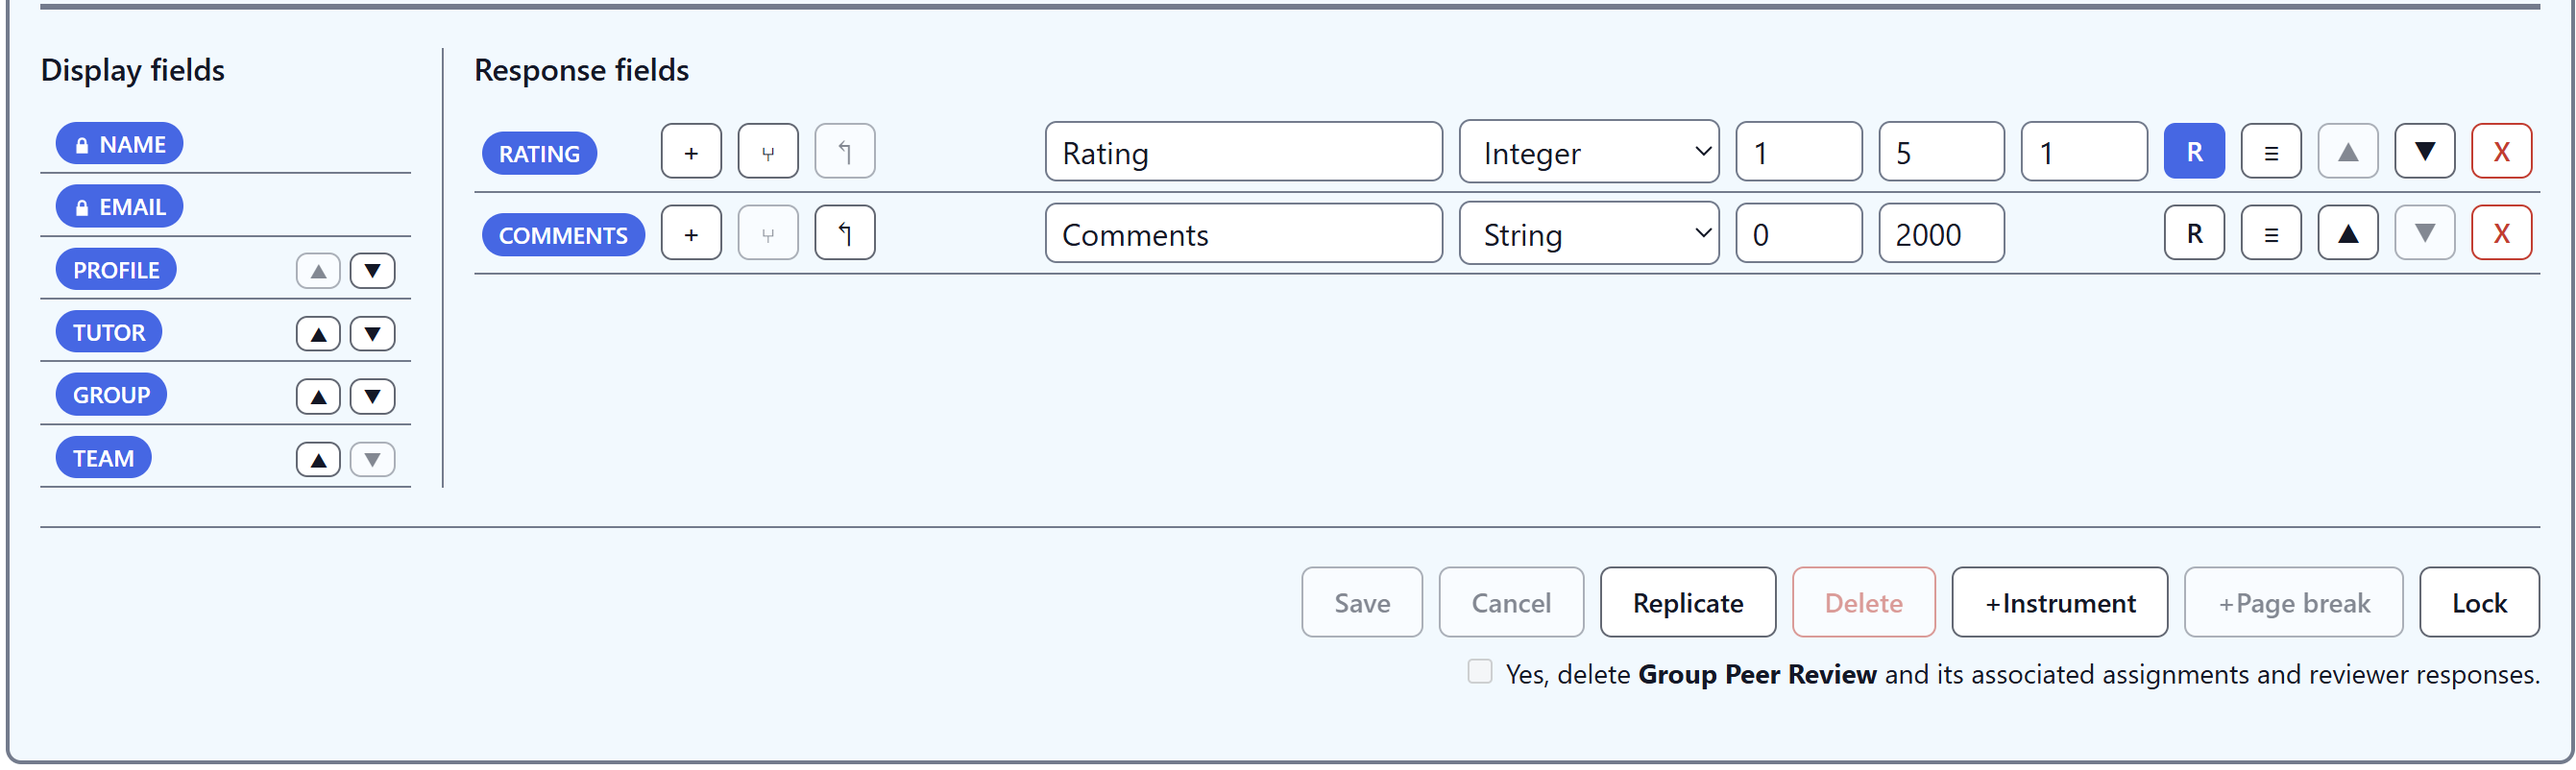
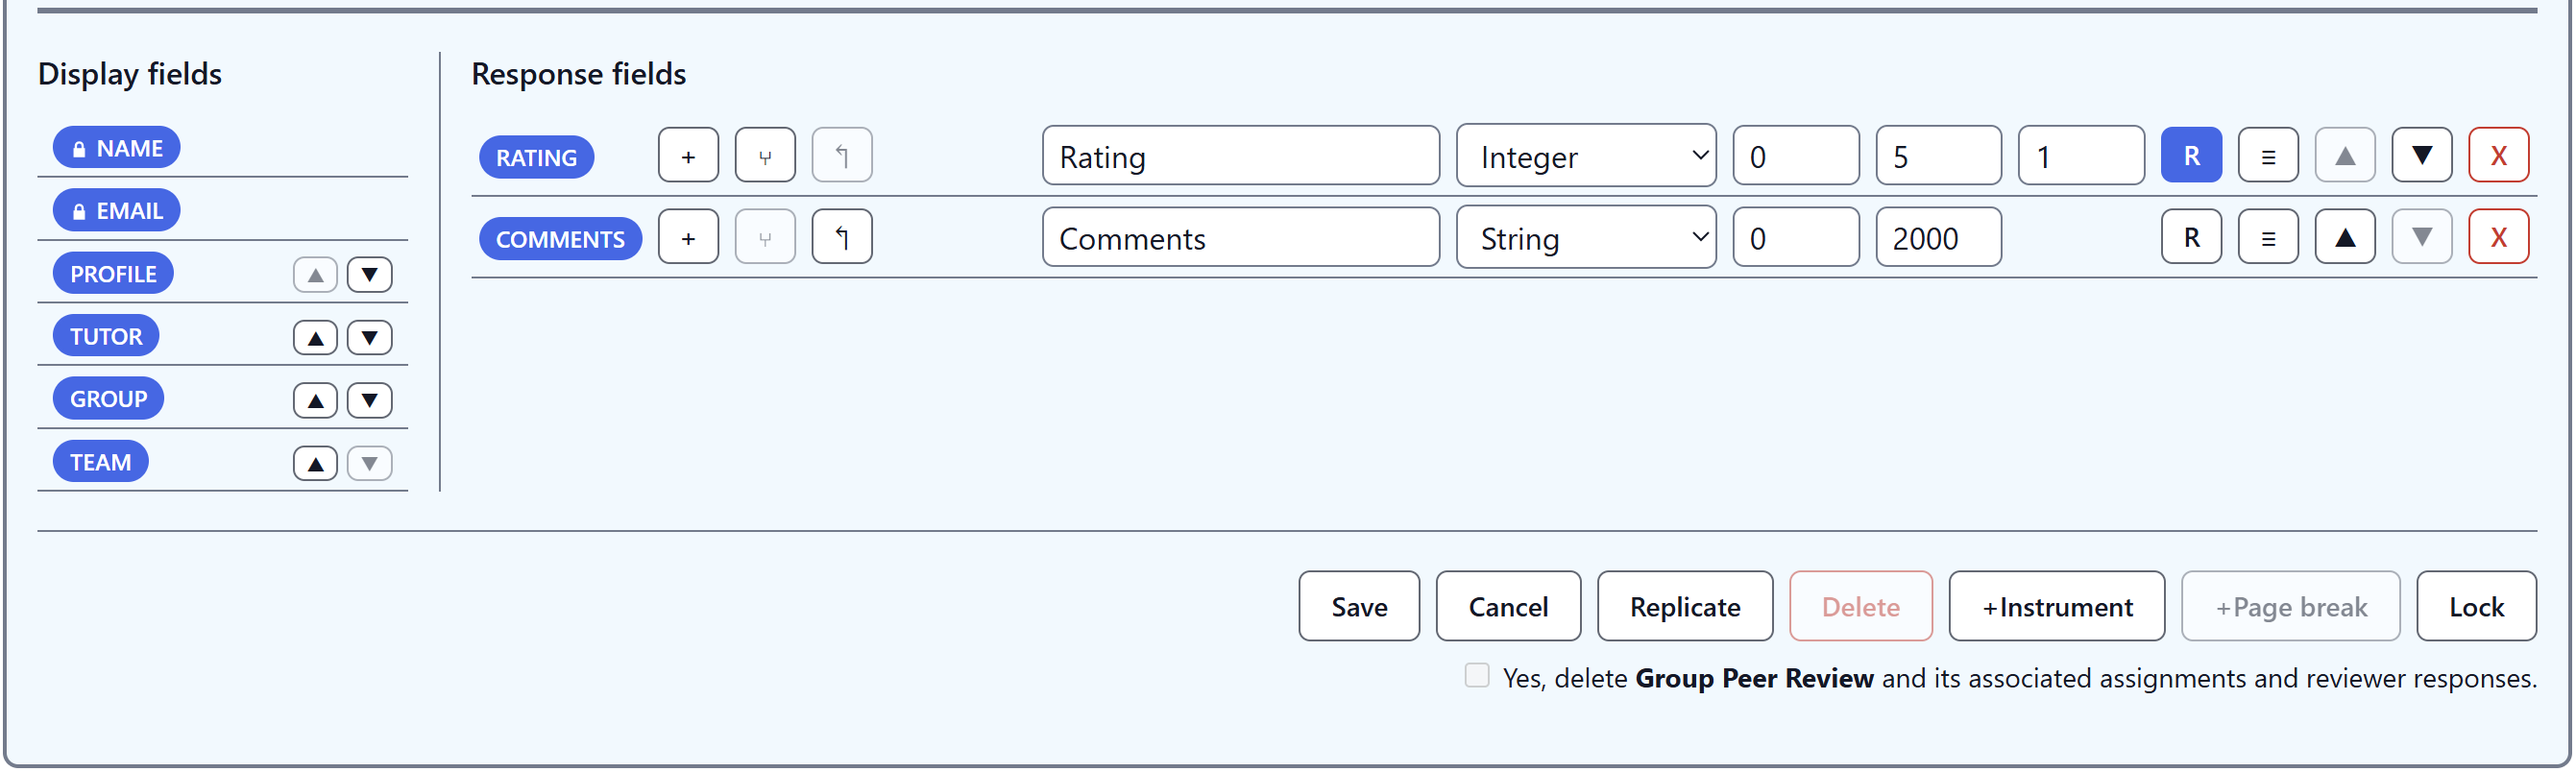
Guide: the retaken fields screencaps (Guide_v5b)
The author retook the fields pair so Rating's bounds read 0-5, matching
the preview screencap's 'Rating (0-5, steps of 1)'.

Claude-Session: https://claude.ai/code/session_0116Ns1HgCKeKutgZT3Tje64

Changed region(s): [[0.0, 0.0, 1.0, 0.9975], [0.1857, 0.0623, 0.2785, 0.1247], [0.0, 0.0623, 0.0928, 0.1247]]

diff --git a/guide/ux_refinements.md b/guide/ux_refinements.md
@@ -513,8 +513,8 @@ eight PNGs in `app/web/static/guide/`, no spec quotes the Guide text
 
 - **Built 2026-10-10** in one PR. The fields and branching captures are
   ~2690px wide against ~1756px for the others; every capture renders at
-  1200px, so their text reads about a third smaller. The preview capture
-  shows Rating 0–5 and the fields capture 1–5 (reported to the author).
+  1200px, so their text reads about a third smaller. The fields pair was
+  retaken (`Guide_v5b`) so Rating's bounds match the preview, 0–5.
 
 ### PR ladder
 
